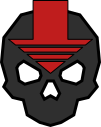
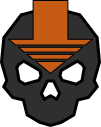
v0.40 changelog
### Changed
- Улитка: исправлена сетка разброса (центр 9/6-8/5, низ 2/3/4) в md, html и шпаргалке

Changed region(s): [[0.0891, 0.0, 0.8911, 0.3543], [0.2079, 0.378, 0.802, 0.5906]]

diff --git a/cheatsheet.html b/cheatsheet.html
@@ -789,15 +789,15 @@
                         </tr>
                         <tr>
                             <td class="ulitka-hit">точно!</td>
-                            <td>4</td>
-                            <td class="ulitka-hit">5–8</td>
                             <td>9</td>
+                            <td class="ulitka-hit">6–8</td>
+                            <td>5</td>
                         </tr>
                         <tr>
                             <td>ближе</td>
-                            <td>1</td>
                             <td>2</td>
                             <td>3</td>
+                            <td>4</td>
                         </tr>
                     </table>
                     <p style="margin:4px 0 0;font-size:11px;color:#888;">2 — ближе · 11 — дальше. Отмеряется от тебя к цели.</p>

diff --git a/rubezh.html b/rubezh.html
@@ -2018,15 +2018,15 @@
             </tr>
             <tr>
                 <td><strong>точно!</strong></td>
-                <td>4</td>
-                <td class="grenade-hit">5–8</td>
                 <td>9</td>
+                <td class="grenade-hit">6–8</td>
+                <td>5</td>
             </tr>
             <tr>
                 <td><strong>ближе</strong></td>
-                <td>1</td>
                 <td>2</td>
                 <td>3</td>
+                <td>4</td>
             </tr>
         </table>
 